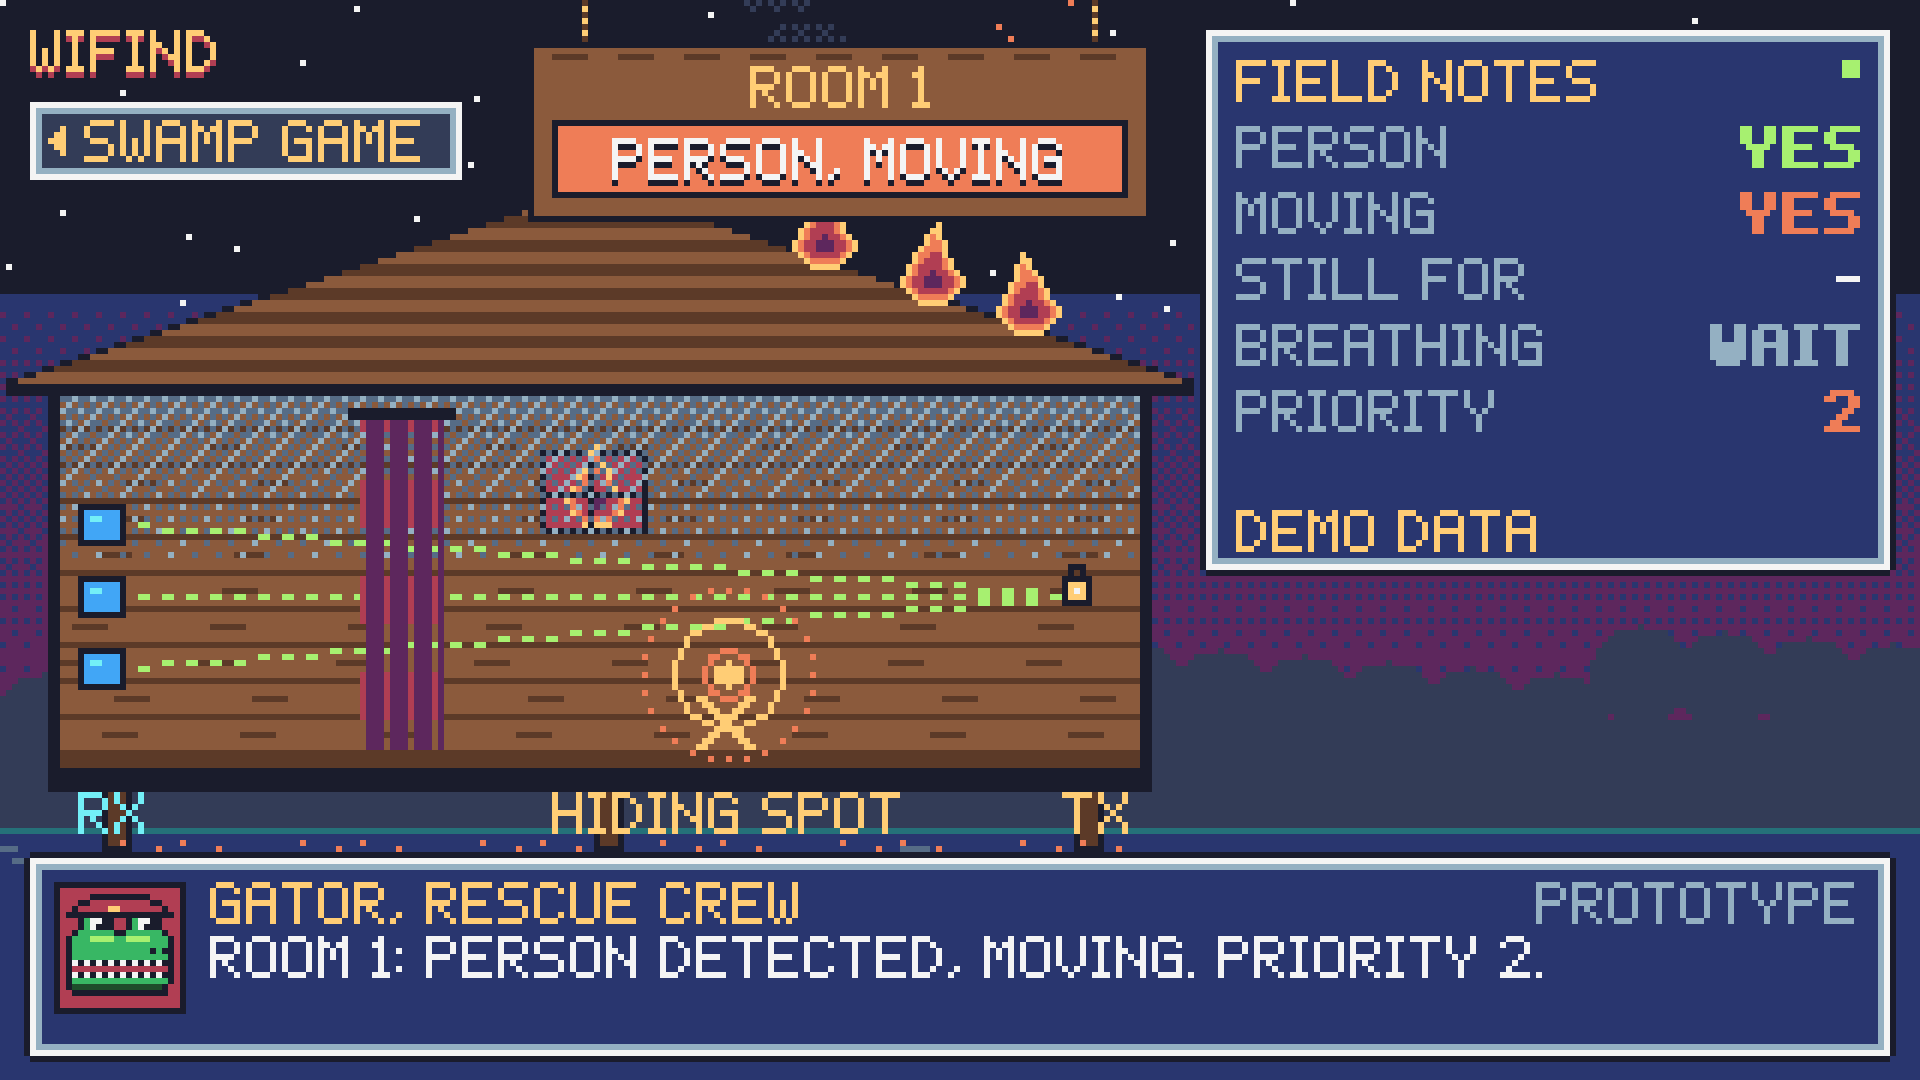
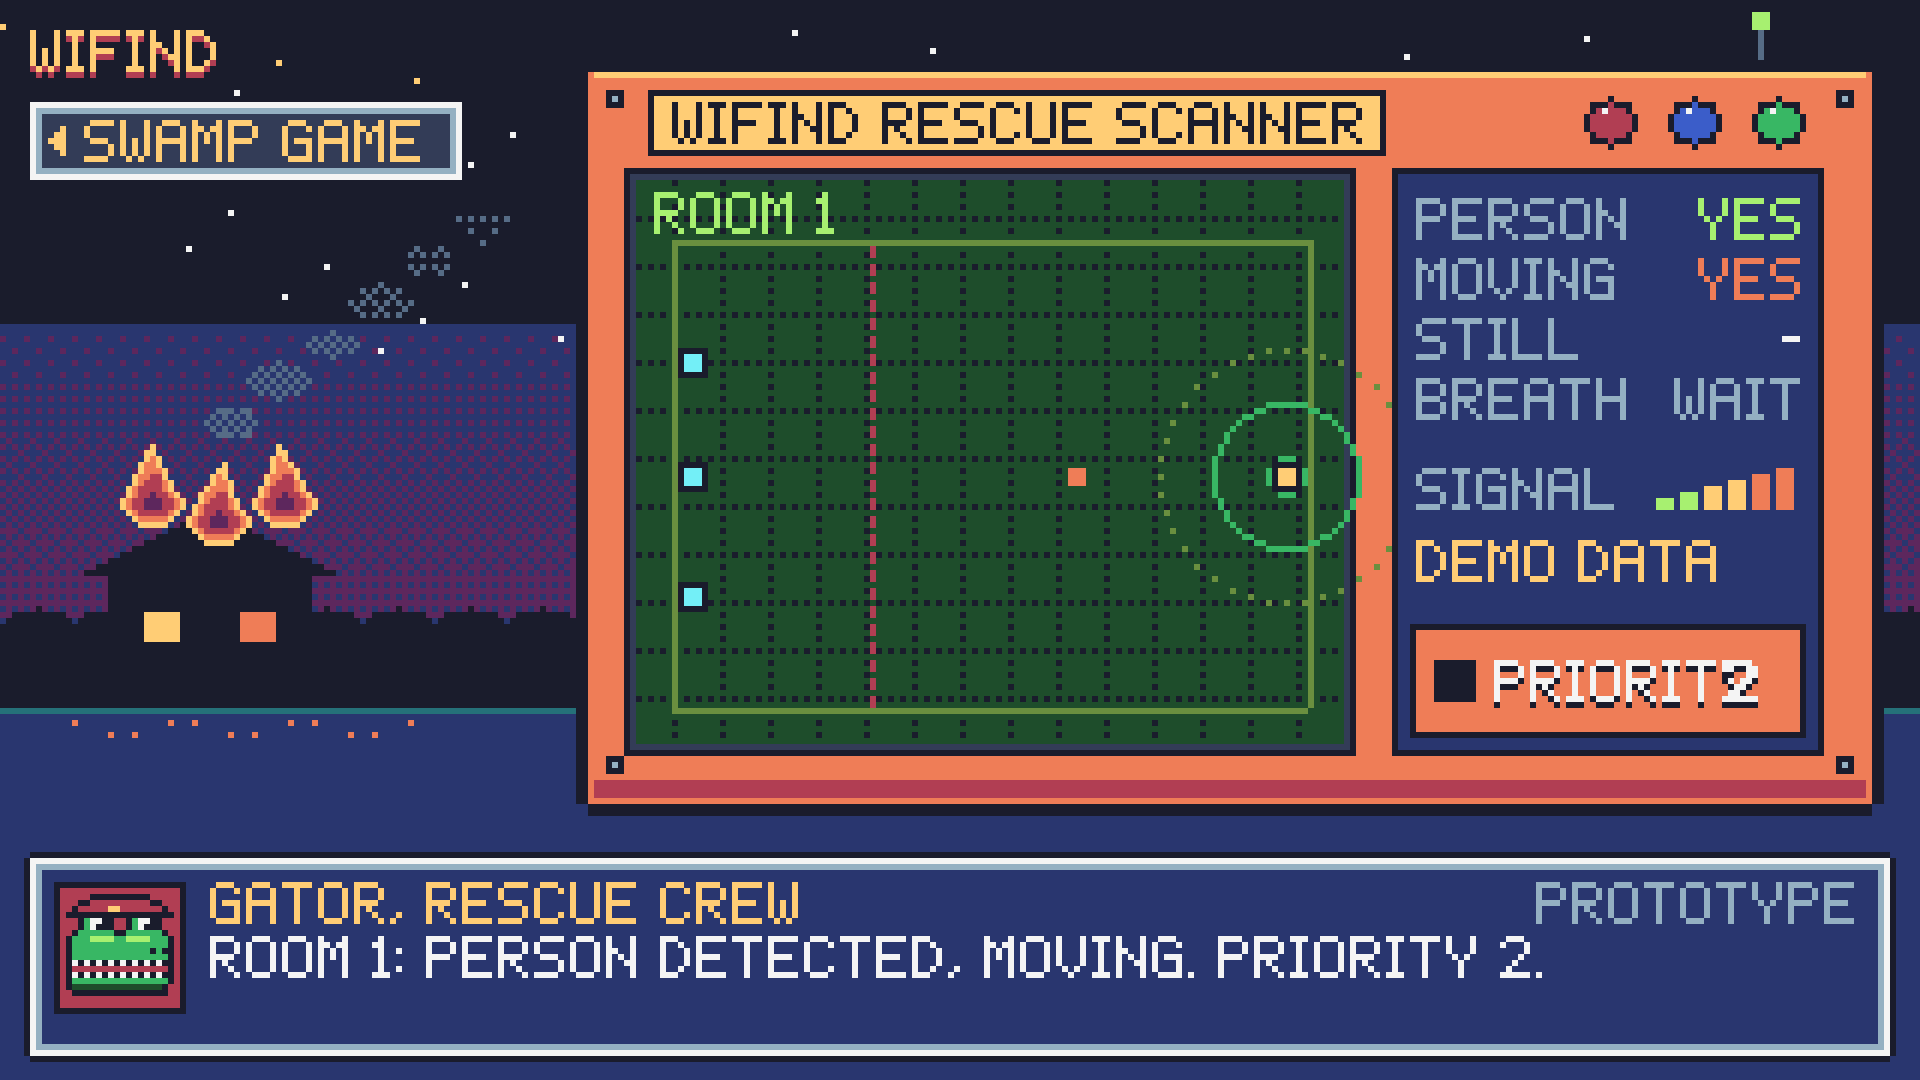
Rescue Watch: a handheld Wi-Fi rescue scanner instead of a cabin diagram
An orange SNES-style gadget (label plate, screws, buttons, blinking antenna)
with a green radar screen: a top-down map of room 1 with the receivers, the
curtain and the transmitter's Wi-Fi waves, and a blip where the Wi-Fi feels a
person (breathing with them when still, jittering with a trail when moving,
static when there's no signal). An LCD readout shows person / moving / still
for / breathing / signal bars and a priority box with a flashing lamp. The
burning cabin is a silhouette on the horizon.

diff --git a/server/static/rescue.html b/server/static/rescue.html
@@ -102,147 +102,140 @@
   }
 
   // ------------------------------------------------------------- the night swamp + burning cabin
-  function drawWorld(t, st) {
+  // ------------------------------------------------------------- the night: a burning cabin on the horizon
+  function drawWorld(t) {
     const step = reduce ? 0 : Math.floor(t / 125);
-    const groundY = H - 42;
-    // sky: night, glowing orange near the fire (dithered, never a smooth gradient)
-    for (let y = 0; y < groundY; y++) for (let x = 0; x < W; x++) {
-      const tt = (y / groundY - 0.35) / 0.5;
+    const horizon = H - 62;
+    for (let y = 0; y < horizon; y++) for (let x = 0; x < W; x++) {   // night sky, fire glow low down
+      const tt = (y / horizon - 0.45) / 0.55;
       ctx.fillStyle = Pixel.P[tt <= 0 ? "K" : tt >= 1 ? "P" : (ditherPick(x, y, tt) ? "P" : "N")];
       ctx.fillRect(x, y, 1, 1);
     }
-    for (let i = 0; i < W / 5; i++) rect(ctx, "W", (i * 97) % W, (i * 53) % Math.floor(groundY * 0.4), 1, 1); // stars
-    ellipse(ctx, "W", W - 30, 22, 6, 6); rect(ctx, "L", W - 33, 20, 2, 2); // moon
-    // far treeline
-    for (let x = 0; x < W; x += 14) { ellipse(ctx, "D", x + 7, groundY - 18 - ((x * 7) % 9), 8, 8); rect(ctx, "D", x, groundY - 18, 16, 18); }
-    // swamp water
-    rect(ctx, "N", 0, groundY, W, H - groundY); rect(ctx, "T", 0, groundY, W, 1);
-    for (let i = 0; i < W / 9; i++) rect(ctx, "G", ((i * 37) + Math.floor(step / 3)) % W, groundY + 3 + (i * 7) % 30, 3 + i % 4, 1);
-
-    // the cabin on stilts, front wall cut away
-    const cw = Math.min(210, W - 140), ch = Math.min(80, groundY - 76);
-    const x0 = Math.max(6, Math.floor((W - 120 - cw) / 2)), x1 = x0 + cw;
-    const floorY = groundY - 10, ceilY = floorY - ch;
-    for (const sx of [x0 + 8, x0 + cw / 2, x1 - 10]) { rect(ctx, "K", sx - 1, floorY, 5, 14); rect(ctx, "d", sx, floorY, 3, 13); }
-    // fire glow on the water under the cabin
-    for (let x = x0; x < x1; x += 2) if ((x + step) % 6 < 3) rect(ctx, "O", x, groundY + 2 + (x % 5), 1, 1);
-    rect(ctx, "K", x0 - 2, ceilY - 2, cw + 4, ch + 6);
-    for (let y = ceilY; y < floorY; y++) rect(ctx, (y - ceilY) % 6 < 5 ? "w" : "d", x0, y, cw, 1); // back wall planks
-    for (let y = ceilY + 2; y < floorY; y += 6) for (let x = x0 + ((y * 7) % 11); x < x1; x += 23) rect(ctx, "d", x, y, 6, 1);
-    rect(ctx, "d", x0, floorY - 3, cw, 3); rect(ctx, "K", x0, floorY, cw, 2);   // floor
-    // a back window showing flames outside
-    const wx = x0 + Math.floor(cw * 0.45), wy = ceilY + 10;
-    rect(ctx, "K", wx - 1, wy - 1, 18, 14); rect(ctx, (step % 2) ? "O" : "R", wx, wy, 16, 12);
-    sprite(ctx, FLAME[step % 3], wx + 3, wy - 2);                   // fire seen through the back window
-    rect(ctx, "K", wx + 7, wy, 1, 12); rect(ctx, "K", wx, wy + 6, 16, 1);
-    // roof: a gable, sloping 1 pixel up for every 3 in
-    const rl = x0 - 8, rr = x1 + 8, rows = Math.floor((rr - rl) / 6);
-    for (let r = 0; r < rows; r++) {
-      const y = ceilY - 3 - r;
-      rect(ctx, "K", rl + r * 3 - 1, y, rr - rl - r * 6 + 2, 1);
-      rect(ctx, (r >> 1) % 2 ? "d" : "w", rl + r * 3 + 1, y, rr - rl - r * 6 - 2, 1);
+    for (let i = 0; i < W / 6; i++) {                                   // stars, scattered (not in rows)
+      const hx = (i * 2654435761) >>> 0;
+      rect(ctx, (i % 7) ? "W" : "Y", hx % W, 4 + ((hx >>> 12) % Math.floor(horizon * 0.5)), 1, 1);
     }
-    rect(ctx, "K", rl - 1, ceilY - 2, rr - rl + 2, 2);
-    const roofY = (x) => ceilY - 3 - Math.floor(Math.min(x - rl, rr - x) / 3);
-    // flames on the roof and out of the window, embers rising, smoke drifting
-    for (const [fx, k] of [[x1 - 58, 0], [x1 - 40, 1], [x1 - 24, 2]]) sprite(ctx, FLAME[(step + k) % 3], fx, roofY(fx + 5) - 12);
-    for (let i = 0; i < 18; i++) {
-      const life = ((step * 2 + i * 17) % 60) / 60, ex = x1 - 56 + ((i * 13) % 44);
-      rect(ctx, life < 0.5 ? "Y" : "O", ex + Math.round(Math.sin(life * 6 + i) * 3), roofY(ex) - 14 - Math.round(life * 50), 1, 1);
+    for (let x = 0; x < W; x += 12) { ellipse(ctx, "K", x + 6, horizon - 10 - ((x * 7) % 7), 7, 7); rect(ctx, "K", x, horizon - 10, 14, 10); }
+    // the cabin, burning, far off on the left
+    const cx = 18, cy = horizon - 22;
+    rect(ctx, "K", cx, cy, 34, 22);
+    for (let r = 0; r < 9; r++) rect(ctx, "K", cx - 4 + r * 2, cy - 1 - r, 42 - r * 4, 1);
+    rect(ctx, step % 2 ? "O" : "Y", cx + 6, cy + 6, 6, 5); rect(ctx, step % 2 ? "Y" : "O", cx + 22, cy + 6, 6, 5);
+    for (let k = 0; k < 3; k++) sprite(ctx, FLAME[(step + k) % 3], cx + 2 + k * 11, cy - 22 + (k % 2) * 3);
+    for (let i = 0; i < 6; i++) {                                      // smoke rising off it
+      const life = ((step + i * 10) % 60) / 60, px = cx + 20 + Math.round(life * 50), py = cy - 26 - Math.round(life * 40);
+      for (let y = -3; y <= 3; y++) for (let x = -5; x <= 5; x++)
+        if (x * x / 25 + y * y / 9 <= 1 && ditherPick(px + x, py + y, 0.55 - life * 0.45)) rect(ctx, "G", px + x, py + y, 1, 1);
     }
-    for (let i = 0; i < 7; i++) {
-      const life = ((step + i * 9) % 64) / 64;
-      const px = x1 - 34 - Math.round(life * 60) + i * 3, py = roofY(x1 - 34) - 18 - Math.round(life * 45);
-      for (let y = -3; y <= 3; y++) for (let x = -6; x <= 6; x++) if (x * x / 36 + y * y / 9 <= 1 && ditherPick(px + x, py + y, 0.6 - life * 0.4))
-        rect(ctx, life < 0.5 ? "G" : "D", px + x, py + y, 1, 1);
-    }
-    // smoke filling the top of the room (it's why a camera can't see)
-    for (let y = ceilY; y < ceilY + Math.floor(ch * 0.45); y++) for (let x = x0; x < x1; x++) {
-      const dens = 0.75 - (y - ceilY) / (ch * 0.6);
-      if (ditherPick(x + Math.floor(step / 2), y, dens)) rect(ctx, (y + x) % 3 ? "G" : "L", x, y, 1, 1);
-    }
-
-    // inside: receivers on the left wall, curtain, hiding spot, lantern on the right wall
-    const rxs = [0.3, 0.5, 0.7].map((f) => [x0 + 4, Math.round(ceilY + ch * f)]);
-    const tx = [x1 - 14, Math.round(ceilY + ch * 0.45)];
-    const curtainX = x0 + Math.floor(cw * 0.28);
-    const hide = [x0 + Math.floor(cw * 0.62), floorY - 16];
-    const lit = st.key === "still" || st.key === "moving";
-    for (const [rx, ry] of rxs) {           // Wi-Fi lines: they cross the hiding spot
-      const n = Math.max(Math.abs(tx[0] - rx), Math.abs(tx[1] - ry));
-      for (let k = 0; k < n; k += 4) rect(ctx, lit ? "l" : "L", rx + 5 + Math.round((tx[0] - rx) * k / n), ry + 2 + Math.round((tx[1] + 3 - ry) * k / n), 2, 1);
-    }
-    for (const [rx, ry] of rxs) { rect(ctx, "K", rx - 1, ry - 1, 8, 7); rect(ctx, "S", rx, ry, 6, 5); rect(ctx, "C", rx + 1, ry + 1, 2, 1); }
-    rect(ctx, "K", curtainX - 2, ceilY + 2, 18, 2);
-    for (let y = ceilY + 4; y < floorY - 3; y++) for (let x = 0; x < 14; x++)
-      rect(ctx, x % 4 === 0 ? "R" : "P", curtainX + x + ((y >> 3) % 2 && x % 4 === 0 ? 1 : 0), y, 1, 1);
-    for (let k = 0; k < 9; k++) {                                  // tape X on the floor
-      rect(ctx, "Y", hide[0] - 5 + k, floorY - 12 + k, 2, 1); rect(ctx, "Y", hide[0] + 3 - k, floorY - 12 + k, 2, 1);
-    }
-    sprite(ctx, LANTERN, tx[0], tx[1]);
-    if (!reduce && (step % 8) < 4) ring(ctx, "Y", tx[0] + 3, tx[1] + 3, 6 + (step % 4) * 2, 2);
-
-    // the Wi-Fi echo at the hiding spot: the only thing drawn about the person
-    if (st.key === "still") {
-      const rate = breathing().rate;                 // breaths per minute -> one ring cycle per breath
-      const cycle = rate ? 60000 / rate : 1500;
-      const r = 3 + (reduce ? 0 : Math.floor(((t % cycle) / cycle) * 12));
-      ring(ctx, "C", hide[0], hide[1], r, r > 9 ? 3 : 1);
-      ring(ctx, "C", hide[0], hide[1], Math.max(2, r - 6), 1);
-      ellipse(ctx, "C", hide[0], hide[1], 1, 1);
-    } else if (st.key === "moving") {
-      for (let k = 0; k < 3; k++) {
-        const r = 4 + ((step * 2 + k * 5) % 15);
-        ring(ctx, k % 2 ? "Y" : "O", hide[0] + (reduce ? 0 : ((step + k) % 3) - 1), hide[1] + (reduce ? 0 : (step % 2)), r, r > 12 ? 3 : 1);
-      }
-      ellipse(ctx, "Y", hide[0], hide[1], 2, 2);
-    }
-    // labels under the cabin
-    text(ctx, "RX", rxs[2][0] - 1, floorY + 4, "C");
-    text(ctx, "TX", tx[0] + 1, floorY + 4, "Y");
-    text(ctx, "HIDING SPOT", hide[0] - Math.floor(textWidth("HIDING SPOT") / 2), floorY + 4, "Y");
+    rect(ctx, "N", 0, horizon, W, H - horizon); rect(ctx, "T", 0, horizon, W, 1);   // swamp water
+    for (let x = 0; x < 60; x += 2) if ((x + step) % 5 < 2) rect(ctx, "O", cx - 6 + x, horizon + 2 + (x % 4), 1, 1);
   }
 
-  // ------------------------------------------------------------- UI: sign, notes, dialog, back button
+  // ------------------------------------------------------------- the handheld rescue scanner
+  function drawScanner(t, st) {
+    const step = reduce ? 0 : Math.floor(t / 125);
+    const x = Math.max(96, Math.floor((W - 250) / 2 + 40)), y = 6;
+    const w = Math.min(W - x - 6, 250), h = H - 38 - 6 - y;
+    // antenna + blinking tip
+    rect(ctx, "K", x + w - 22, y - 2, 3, 12); rect(ctx, "G", x + w - 21, y - 1, 1, 10);
+    rect(ctx, (step % 8 < 4 && S.online) ? "l" : "D", x + w - 22, y - 4, 3, 3);
+    // body: chunky orange casing, corners cut, light top edge, dark bottom edge
+    rect(ctx, "K", x + 2, y + 4, w - 4, h - 4); rect(ctx, "K", x, y + 6, w, h - 8);
+    rect(ctx, "O", x + 2, y + 6, w - 4, h - 8);
+    rect(ctx, "Y", x + 3, y + 6, w - 6, 1); rect(ctx, "R", x + 3, y + h - 6, w - 6, 3);
+    for (const [sx, sy] of [[x + 5, y + 9], [x + w - 8, y + 9], [x + 5, y + h - 10], [x + w - 8, y + h - 10]]) {
+      rect(ctx, "K", sx, sy, 3, 3); rect(ctx, "L", sx + 1, sy + 1, 1, 1);   // screws
+    }
+    // label plate
+    const plate = "WIFIND RESCUE SCANNER";
+    rect(ctx, "K", x + 12, y + 9, textWidth(plate) + 8, 11); rect(ctx, "Y", x + 13, y + 10, textWidth(plate) + 6, 9);
+    text(ctx, plate, x + 16, y + 11, "K");
+
+    // the radar screen: a top-down map of room 1
+    const s = { x: x + 10, y: y + 24, w: Math.floor((w - 20) * 0.6), h: h - 36 };
+    rect(ctx, "K", s.x - 2, s.y - 2, s.w + 4, s.h + 4); rect(ctx, "D", s.x - 1, s.y - 1, s.w + 2, s.h + 2);
+    rect(ctx, "f", s.x, s.y, s.w, s.h);
+    for (let gx = s.x + 6; gx < s.x + s.w; gx += 8) for (let gy = s.y; gy < s.y + s.h; gy += 2) rect(ctx, "K", gx, gy, 1, 1);
+    for (let gy = s.y + 6; gy < s.y + s.h; gy += 8) for (let gx = s.x; gx < s.x + s.w; gx += 2) rect(ctx, "K", gx, gy, 1, 1);
+    const room = { x: s.x + 6, y: s.y + 10, w: s.w - 12, h: s.h - 16 };
+    for (let k = 0; k < room.w; k++) { rect(ctx, "m", room.x + k, room.y, 1, 1); rect(ctx, "m", room.x + k, room.y + room.h, 1, 1); }
+    for (let k = 0; k < room.h; k++) { rect(ctx, "m", room.x, room.y + k, 1, 1); rect(ctx, "m", room.x + room.w, room.y + k, 1, 1); }
+    text(ctx, "ROOM 1", s.x + 3, s.y + 2, "l");
+    const curtainX = room.x + Math.floor(room.w * 0.32);
+    for (let k = 1; k < room.h; k += 3) rect(ctx, "R", curtainX, room.y + k, 1, 2);       // the curtain
+    const rxs = [0.25, 0.5, 0.75].map((f) => [room.x + 3, room.y + Math.round(room.h * f)]);
+    const tx = [room.x + room.w - 4, room.y + Math.round(room.h * 0.5)];
+    const spot = [room.x + Math.floor(room.w * 0.64), room.y + Math.floor(room.h * 0.5)];
+    if (!S.online) {                                                  // no signal: static
+      for (let i = 0; i < s.w * s.h / 9; i++) rect(ctx, ((i * 31 + step * 7) % 3) ? "D" : "m",
+        s.x + ((i * 53 + step * 13) % s.w), s.y + ((i * 29 + step * 17) % s.h), 1, 1);
+      const msg = "NO SIGNAL";
+      rect(ctx, "K", s.x + s.w / 2 - textWidth(msg) / 2 - 3, s.y + s.h / 2 - 6, textWidth(msg) + 6, 11);
+      text(ctx, msg, s.x + Math.floor(s.w / 2 - textWidth(msg) / 2), s.y + Math.floor(s.h / 2) - 4, "l");
+    } else {
+      // Wi-Fi waves pulsing out from the transmitter, dotted as they fade
+      for (let k = 0; k < 3; k++) {
+        const r = 3 + ((step + k * 9) % 27);
+        ring(ctx, r > 18 ? "m" : "g", tx[0], tx[1], r, r > 12 ? 3 : 1);
+      }
+      for (const [rx, ry] of rxs) { rect(ctx, "K", rx - 2, ry - 2, 5, 5); rect(ctx, "C", rx - 1, ry - 1, 3, 3); }
+      rect(ctx, "K", tx[0] - 2, tx[1] - 2, 5, 5); rect(ctx, "Y", tx[0] - 1, tx[1] - 1, 3, 3);
+      if (st.key === "still") {                                       // a steady blip that breathes
+        const rate = breathing().rate, cycle = rate ? 60000 / rate : 2400;
+        const big = !reduce && (t % cycle) < cycle / 2;
+        ellipse(ctx, "Y", spot[0], spot[1], big ? 3 : 2, big ? 3 : 2); ellipse(ctx, "W", spot[0], spot[1], 1, 1);
+        ring(ctx, "Y", spot[0], spot[1], big ? 6 : 5, 2);
+      } else if (st.key === "moving") {                               // a jittery blip with a trail
+        for (let k = 3; k >= 0; k--) {
+          const jx = reduce ? 0 : ((step - k) * 7 % 5) - 2, jy = reduce ? 0 : ((step - k) * 3 % 5) - 2;
+          rect(ctx, k ? "R" : "O", spot[0] + jx - 1, spot[1] + jy - 1, k ? 2 : 3, k ? 2 : 3);
+        }
+      } else if (st.key === "scan") {
+        const msg = "SCANNING...";
+        text(ctx, msg, s.x + Math.floor(s.w / 2 - textWidth(msg) / 2), s.y + s.h - 9, "l");
+      }
+    }
+
+    // the LCD readout
+    const l = { x: s.x + s.w + 8, y: s.y - 2, w: x + w - 10 - (s.x + s.w + 8), h: s.h + 4 };
+    rect(ctx, "K", l.x, l.y, l.w, l.h); rect(ctx, "N", l.x + 1, l.y + 1, l.w - 2, l.h - 2);
+    const stillFor = st.key === "still" && S.rescue ? clock(S.rescue.facts.seconds_in_state) : "-";
+    const br = breathing();
+    const rows = [["PERSON", st.person, st.person === "YES" ? "l" : "W"], ["MOVING", st.moving, st.moving === "YES" ? "O" : "W"],
+      ["STILL", stillFor, "W"], ["BREATH", br.rate ? `~${Math.round(br.rate)}` : br.text, br.col]];
+    rows.forEach(([k, v, c], i) => {
+      const ry = l.y + 5 + i * 10, room = l.w - 10 - textWidth(k);
+      if (textWidth(v) > room) v = v.split(" ")[0];
+      text(ctx, k, l.x + 4, ry, "L");
+      text(ctx, v, l.x + l.w - 4 - textWidth(v), ry, c);
+    });
+    // signal bars: how much the Wi-Fi is wobbling right now (motion vs the freeze line)
+    const m = S.online ? Math.min((S.sense.motion || 0) / 4, 1) : 0, bars = 6;
+    const by = l.y + 50;
+    text(ctx, "SIGNAL", l.x + 4, by, "L");
+    for (let k = 0; k < bars; k++) {
+      const bh = 2 + k, on = k < Math.round(m * bars) + (S.online ? 1 : 0);
+      rect(ctx, on ? (k < 2 ? "l" : k < 4 ? "Y" : "O") : "D", l.x + l.w - 4 - (bars - k) * 4, by + 7 - bh, 3, bh);
+    }
+    if (S.sense && S.sense.simulated) text(ctx, "DEMO DATA", l.x + 4, by + 12, "Y");
+    const py = l.y + l.h - 22;
+    rect(ctx, "K", l.x + 3, py, l.w - 6, 19); rect(ctx, st.panel, l.x + 4, py + 1, l.w - 8, 17);
+    const flash = st.priority === "1" && (reduce || step % 4 < 2);           // red lamp for priority 1
+    rect(ctx, "K", l.x + 7, py + 6, 7, 7); rect(ctx, flash ? "Y" : "K", l.x + 8, py + 7, 5, 5);
+    text(ctx, "PRIORITY", l.x + 17, py + 6, "W", { shadow: "K" });
+    text(ctx, st.priority, l.x + l.w - 11 - textWidth(st.priority, true), py + 6, "W", { bold: true, shadow: "K" });
+    // a couple of chunky buttons under the plate, for the toy feel
+    for (const [bx, c] of [[x + w - 46, "R"], [x + w - 32, "B"], [x + w - 18, "g"]]) {
+      ellipse(ctx, "K", bx, y + 14, 4, 4); ellipse(ctx, c, bx, y + 14, 3, 3); rect(ctx, "W", bx - 1, y + 12, 1, 1);
+    }
+  }
+
+  // ------------------------------------------------------------- the gator, logo, back button
   let since = 0, lastKey = "";
   let backBtn = null, hoverBack = false;
   const clock = (s) => `${Math.floor(s / 60)}:${String(Math.floor(s % 60)).padStart(2, "0")}`;
   function drawUI(t, st) {
     if (st.key !== lastKey) { lastKey = st.key; since = t; }
-    // hanging wooden sign with the room's status
-    // centred in the free space between the back button (left) and the field notes (right)
-    const freeL = 84, freeR = W - 124, sw = Math.max(100, Math.min(170, freeR - freeL - 8));
-    const sx = Math.floor(freeL + (freeR - freeL - sw) / 2);
-    const drop = [-8, -4, -1, 1, 0][Math.min(4, Math.floor((t - since) / 70))];
-    const sy = 7 + drop;
-    for (const rx of [sx + 9, sx + sw - 10]) for (let y = 0; y < sy; y++) rect(ctx, y % 2 ? "Y" : "d", rx, y, 1, 1);
-    rect(ctx, "K", sx, sy, sw, 30); rect(ctx, "w", sx + 1, sy + 1, sw - 2, 28);
-    for (let i = 4; i < sw - 8; i += 11) rect(ctx, "d", sx + i, sy + 2, 6, 1);
-    text(ctx, "ROOM 1", sx + Math.floor((sw - textWidth("ROOM 1")) / 2), sy + 4, "Y");
-    rect(ctx, "K", sx + 4, sy + 13, sw - 8, 13); rect(ctx, st.panel, sx + 5, sy + 14, sw - 10, 11);
-    const bold = textWidth(st.sign, true) <= sw - 16;
-    text(ctx, st.sign, sx + Math.floor((sw - textWidth(st.sign, bold)) / 2), sy + 16, "W", { bold, shadow: "K" });
-
-    // field notes
-    const nw = 116, nx = W - nw - 4, ny = 4, nh = 92;
-    windowBox(ctx, nx, ny, nw, nh);
-    text(ctx, "FIELD NOTES", nx + 6, ny + 6, "Y");
-    const live = S.online && (reduce || Math.floor(t / 500) % 2);
-    rect(ctx, live ? "l" : "G", nx + nw - 9, ny + 6, 3, 3);
-    const stillFor = st.key === "still" && S.rescue ? clock(S.rescue.facts.seconds_in_state) : "-";
-    const rows = [["PERSON", st.person, st.person === "YES" ? "l" : "W"], ["MOVING", st.moving, st.moving === "YES" ? "O" : "W"],
-      ["STILL FOR", stillFor, "W"], ["BREATHING", breathing().text, breathing().col],
-      ["PRIORITY", st.priority, st.priority === "1" ? "R" : st.priority === "2" ? "O" : "W"]];
-    rows.forEach(([k, v, c], i) => {
-      const y = ny + 17 + i * 11, room = nw - 16 - textWidth(k);
-      if (textWidth(v) > room) v = v.replace(/^YES ~/, "~");          // "YES ~16/MIN" -> "~16/MIN"
-      const bold = textWidth(v, true) <= room;                       // bold when it fits, else regular
-      text(ctx, k, nx + 6, y, "L");
-      text(ctx, v, nx + nw - 6 - textWidth(v, bold), y, c, { bold });
-    });
-    if (S.sense && S.sense.simulated) text(ctx, "DEMO DATA", nx + 6, ny + nh - 11, "Y");
-
-    // the gator, in a fire helmet, says what it sees
     const dx = 4, dh = 35, dy = H - dh - 3, dw = W - 8;
     windowBox(ctx, dx, dy, dw, dh);
     rect(ctx, "K", dx + 5, dy + 5, 22, 22); rect(ctx, "R", dx + 6, dy + 6, 20, 20);
@@ -253,7 +246,6 @@
     let shown = Math.floor((t - since) / (reduce ? 1 : 28));
     lines.forEach((ln, i) => { text(ctx, ln.slice(0, Math.max(0, shown)), dx + 31, dy + 14 + i * 9, "W"); shown -= ln.length; });
 
-    // logo + back to the swamp game
     text(ctx, "WIFIND", 5, 5, "Y", { outline: "K", shadow: "R" });
     const label = "SWAMP GAME", bw = textWidth(label) + 18;
     windowBox(ctx, 4, 16, bw, 15, hoverBack ? "T" : "D");
@@ -271,7 +263,8 @@
   let lastSpoken = "";
   function frame(t) {
     const st = status();
-    drawWorld(t, st);
+    drawWorld(t);
+    drawScanner(t, st);
     drawUI(t, st);
     const spoken = `Room 1: ${st.sign}. ${st.say}`;   // the same news for screen readers
     if (spoken !== lastSpoken) { document.getElementById("live").textContent = spoken; lastSpoken = spoken; }
